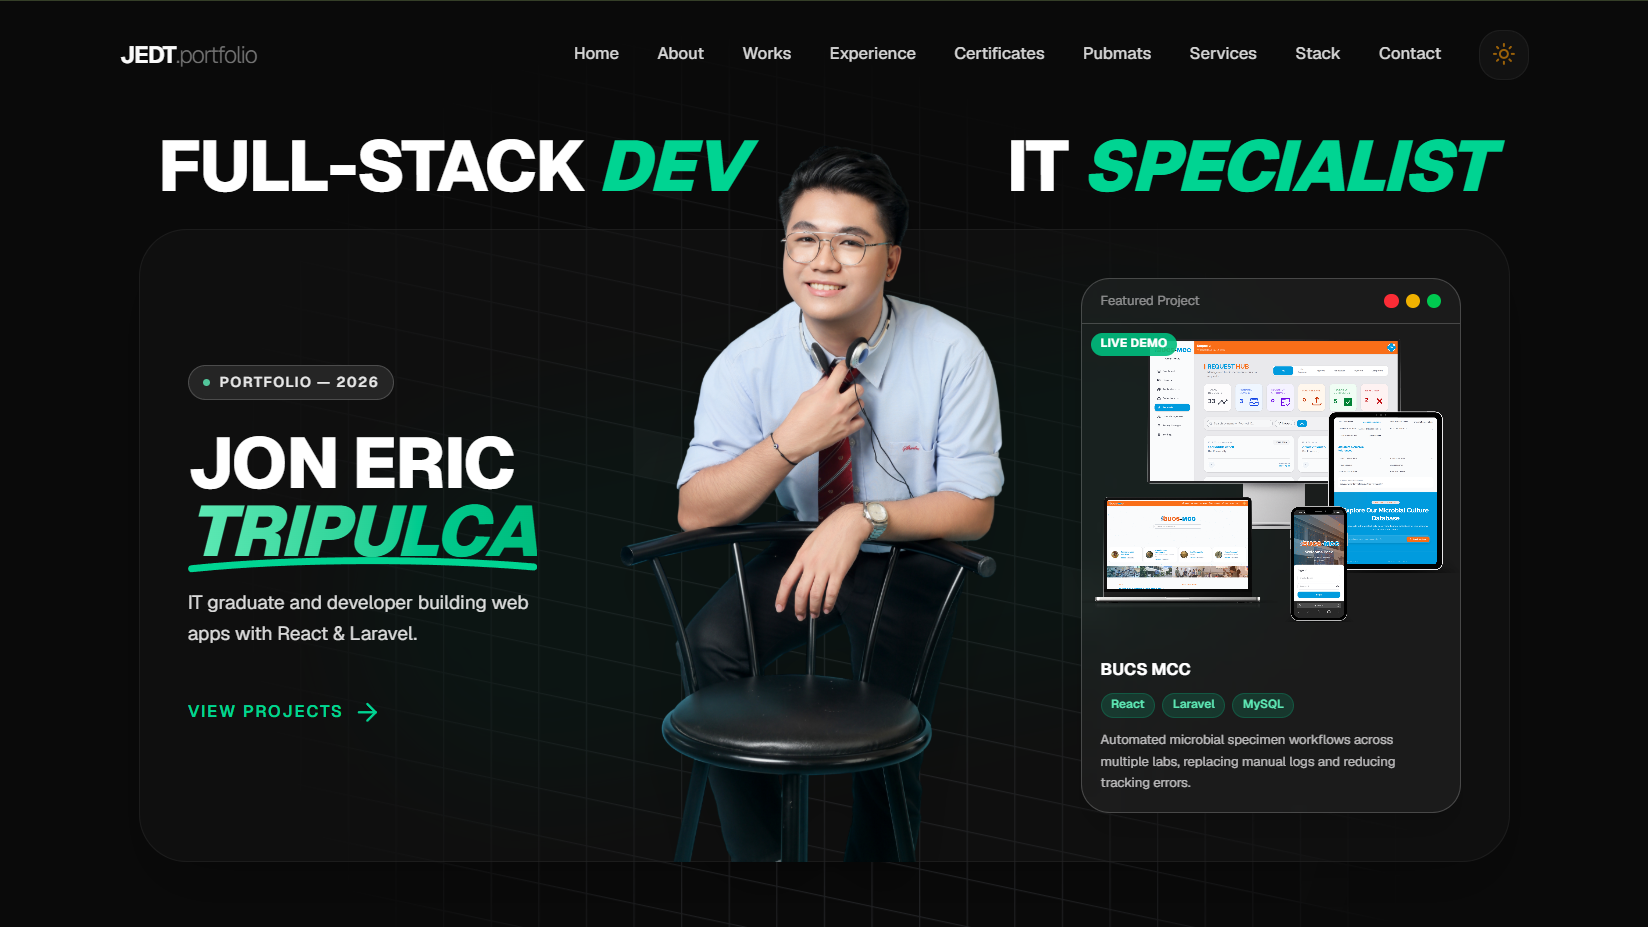
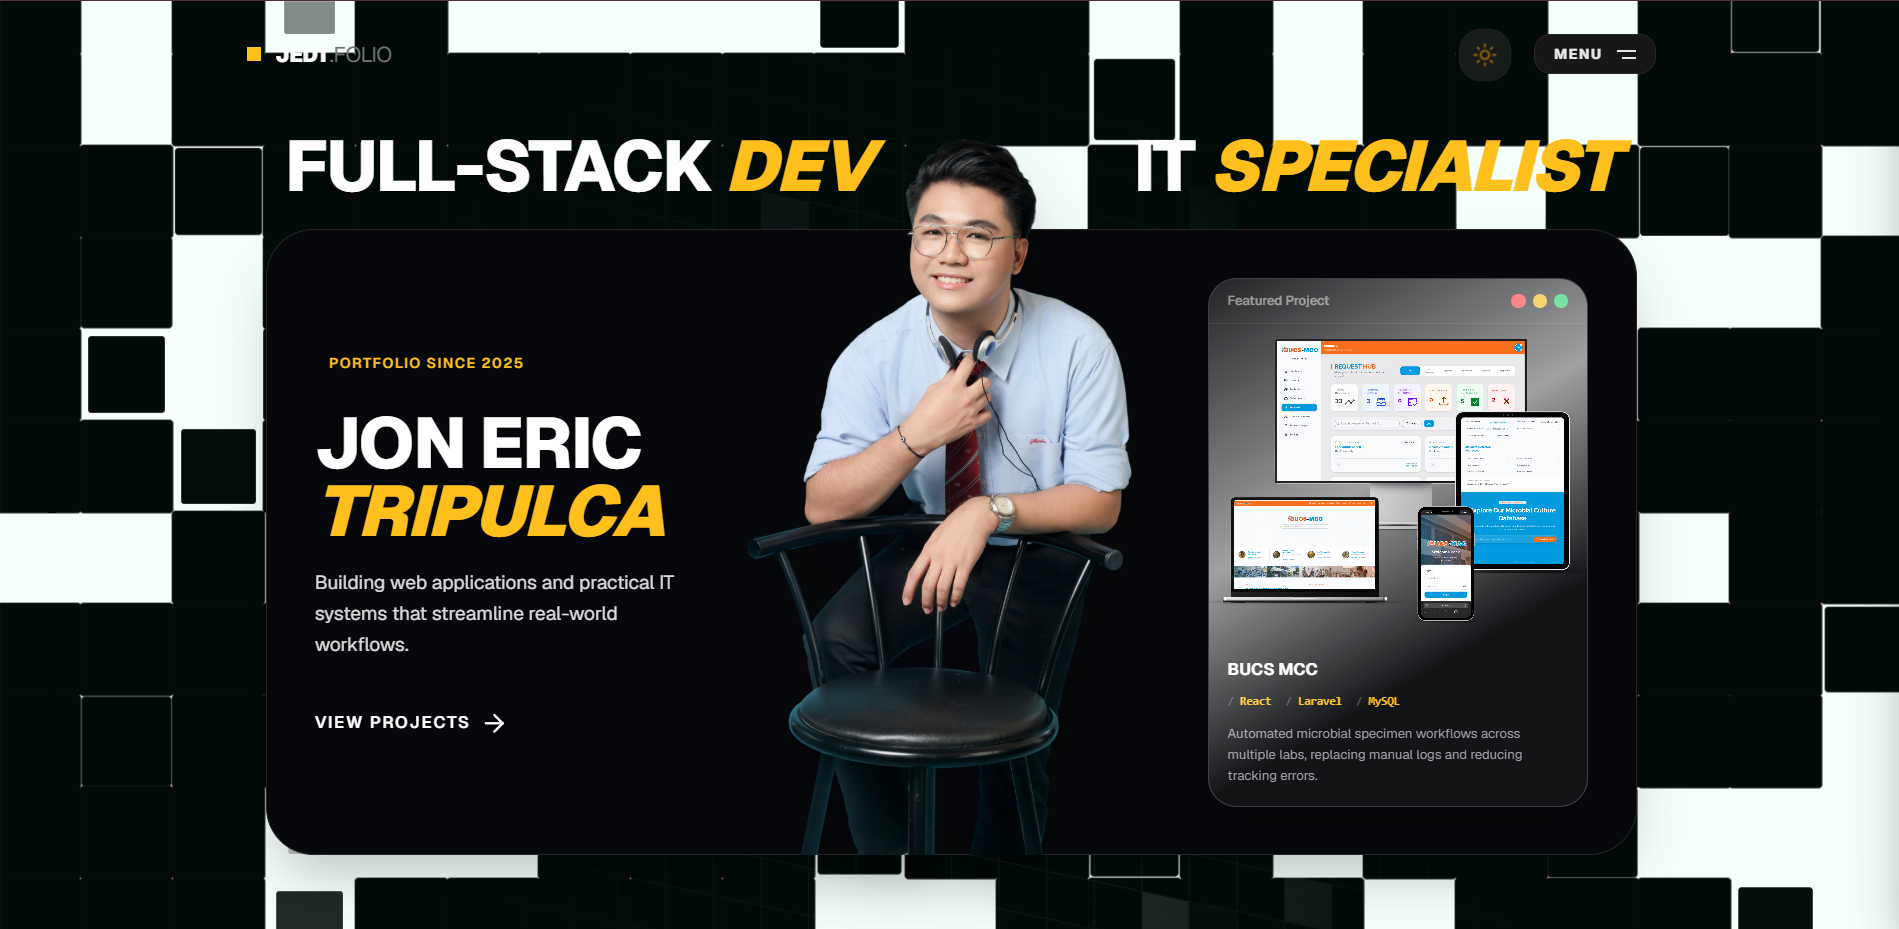
feat: add SEO meta tags and optimize stylesheet link formatting in index.html

diff --git a/index.html b/index.html
@@ -4,11 +4,17 @@
 <head>
   <meta charset="UTF-8" />
   <link rel="icon" type="image/svg+xml" href="/jedt.ico" />
+  <link rel="icon" type="image/png" href="/jedt.png" sizes="32x32" />
   <meta name="viewport" content="width=device-width, initial-scale=1.0" />
   <meta name="google-site-verification" content="Z7MDqTsFBZJnrwLlRU_gfTF2649pxC-tXqmqJx7rIz4" />
   <meta name="description" content="Portfolio of Jon Eric Tripulca showcasing projects, skills, and achievements.">
   <meta name="keywords"
     content="Portfolio, Jon Eric Tripulca, JEDT, projects, skills, achievements, Web Developer, App Developer">
+  <meta name="author" content="Jon Eric Tripulca" />
+  <meta name="geo.region" content="PH" />
+  <meta name="geo.placename" content="Legazpi City, Albay, Bicol Region, Philippines" />
+  <meta name="subject" content="Web Development, App Development, Software Engineering" />
+  <meta name="classification" content="Portfolio, Web Development Services, App Development Services" />
   <title>Portfolio - Jon Eric Tripulca | JEDT Portfolio</title>
   <meta property="og:type" content="website" />
   <meta property="og:title" content="Portfolio - Jon Eric Tripulca | JEDT Portfolio" />
@@ -27,8 +33,7 @@
   <link rel="preconnect" href="https://fonts.gstatic.com" crossorigin />
   <link
     href="https://fonts.googleapis.com/css2?family=Lato:ital,wght@0,100;0,300;0,400;0,700;0,900;1,100;1,300;1,400;1,700;1,900&family=Montserrat:ital,wght@0,100..900;1,100..900&display=swap"
-    rel="stylesheet"
-  />
+    rel="stylesheet" />
   <script>
     (function () {
       var theme = localStorage.getItem("theme");
